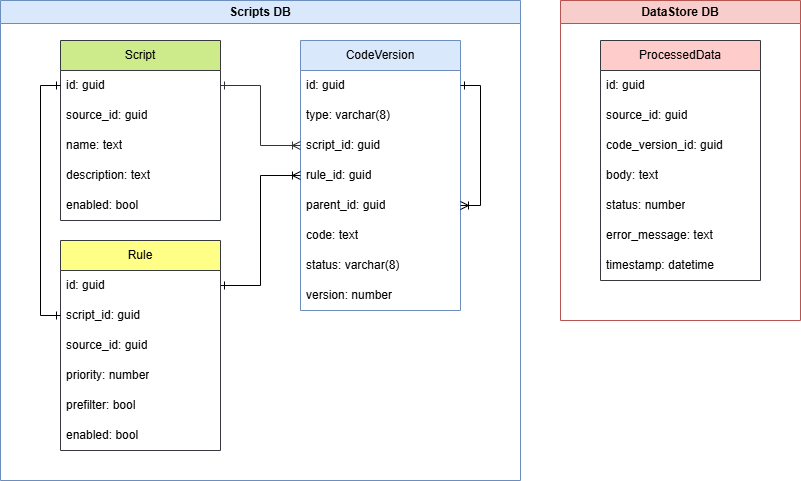
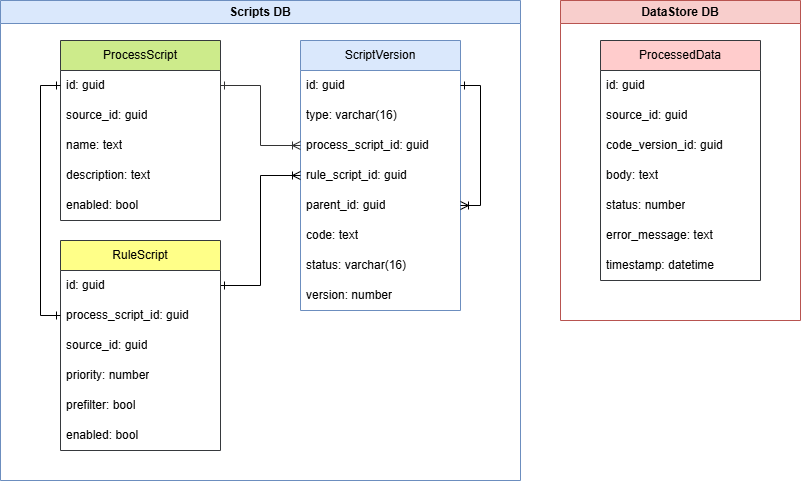
docs: Добавлен отчёт по 0 и 1 лабораторным.

diff --git a/Отчёт_Lab01.md b/Отчёт_Lab01.md
@@ -1,0 +1,42 @@
+# Отчёт по лабораторной работе #0 и #1
+
+## Scripts API
+
+* [Контекст БД](https://github.com/MikoGH/DSS/blob/Lab01/LuaEngine.Scripts/LuaEngine.Scripts/Database/ScriptsContext.cs).
+
+* [Модели](https://github.com/MikoGH/DSS/blob/Lab01/LuaEngine.Scripts/LuaEngine.Scripts/Models/ProcessScript.cs) сущностей БД.
+
+* Взаимодействие с БД postgres в сервисе Scripts API через [репозитории](https://github.com/MikoGH/DSS/blob/Lab01/LuaEngine.Scripts/LuaEngine.Scripts/Repositories/ProcessScriptRepository.cs).
+
+* Слой [сервисов](https://github.com/MikoGH/DSS/blob/Lab01/LuaEngine.Scripts/LuaEngine.Scripts/Services/ProcessScriptService.cs) (пока кроме вызовов репозитория почти ничего не происходит, но потом появится логика, поэтому этот слой нужен).
+
+* [Контроллеры](https://github.com/MikoGH/DSS/blob/Lab01/LuaEngine.Scripts/LuaEngine.Scripts/Controllers/ProcessScriptController.cs).
+
+* [Профили автомапперов](https://github.com/MikoGH/DSS/blob/Lab01/LuaEngine.Scripts/LuaEngine.Scripts/Profiles/ProcessScriptProfile.cs).
+
+* Регистрация зависимостей DI в [методах расширения](https://github.com/MikoGH/DSS/blob/Lab01/LuaEngine.Scripts/LuaEngine.Scripts/Extensions/ServicesExtensions.cs).
+
+* Подключение Swagger в [методах расширения](https://github.com/MikoGH/DSS/blob/Lab01/LuaEngine.Scripts/LuaEngine.Scripts/Extensions/SwaggerExtensions.cs).
+
+* [Unit-тесты](https://github.com/MikoGH/DSS/blob/Lab01/LuaEngine.Scripts/LuaEngine.Scripts.Tests/Repositories/ProcessScriptRepositoryTests.cs) для репозиториев.
+
+* Проект с [моделями ViewModel](https://github.com/MikoGH/DSS/blob/Lab01/LuaEngine.Scripts/LuaEngine.Scripts.Models/Script/ProcessScriptViewModel.cs) (чтобы собирать как Nuget-пакет, чтобы можно было использовать модельки в других микросервисах при взаимодействии).
+
+## Prefilter API
+
+* Настроено взаимодействие с сервисом Scripts API с помощью Refit:
+    * [Refit клиенты](https://github.com/MikoGH/DSS/blob/Lab01/LuaEngine.Prefilter/LuaEngine.Prefilter/Repositories/Abstractions/RefitClients/IProcessScriptClient.cs).
+    * [Репозитории](https://github.com/MikoGH/DSS/blob/Lab01/LuaEngine.Prefilter/LuaEngine.Prefilter/Repositories/ProcessScriptRepository.cs).
+
+* Настроено взаимодействие с RabbitMq:
+    * Настроено подключение к очереди сообщений RabbitMq в [методах расширения](https://github.com/MikoGH/DSS/blob/Lab01/LuaEngine.Prefilter/LuaEngine.Prefilter/Extensions/RabbitMqExtensions.cs). 
+    * Добавлен [консьюмер](https://github.com/MikoGH/DSS/blob/Lab01/LuaEngine.Prefilter/LuaEngine.Prefilter/Services/DataConsumer.cs).
+    * [Контроллер-продюсер](https://github.com/MikoGH/DSS/blob/Lab01/LuaEngine.Prefilter/LuaEngine.Prefilter/Controllers/DataController.cs) - временный, только для проверки, что работает очередь, потом будет удалён.
+
+## Docker
+
+* Настроен [docker-compose](https://github.com/MikoGH/DSS/blob/Lab01/LuaEngine.Prefilter/docker-compose.yml) с 4 контейнерами:
+    * PostgreSQL
+    * RabbitMq
+    * Scripts API
+    * Prefilter API

diff --git a/README.md b/README.md
@@ -31,9 +31,11 @@
 
 **Домен Scripts**: Обеспечение CRUD функционала для скриптов и правил.
 
-***Скрипт***: Код на языке Lua, который применяется для обработки данных.
+***Скрипт-обработчик***: Модель, которая применяется для обработки данных.
 
-***Правило***: Код на языке Lua, который применяется для фильтрации данных и содержит связь 1:1 со скриптом.
+***Скрипт-правило***: Модель, которая применяется для фильтрации данных и содержит связь 1:1 со скриптом.
+
+***Версия скрипта***: Модель, содержащая код на языке Lua, связана со скриптом-обработчиком или скриптом-правилом.
 
 ***Данные***: Модель в виде Json-объекта, приходящая с интеграций.
 
